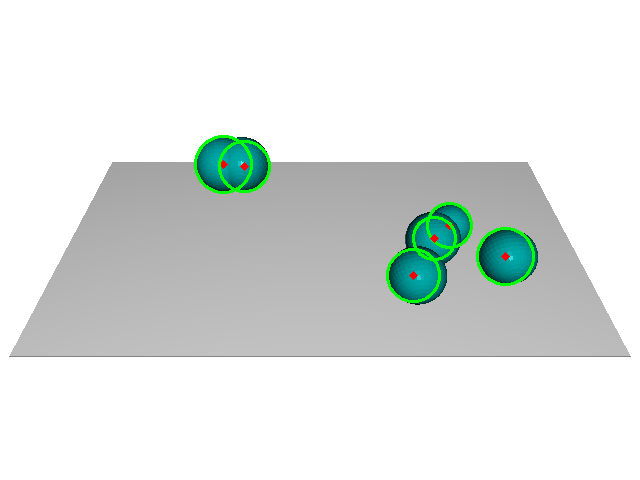
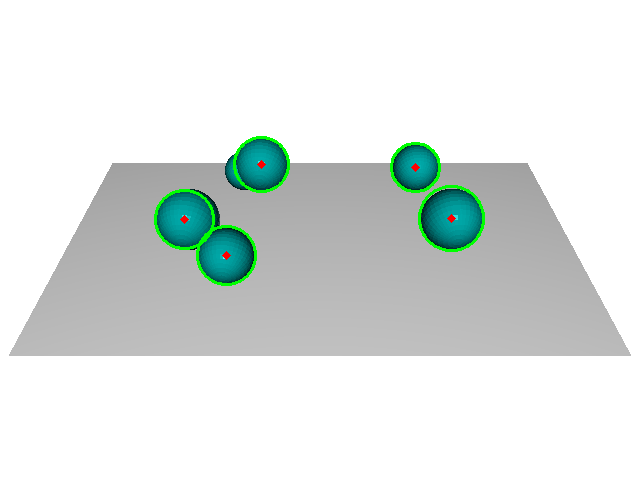
finish upto Task6

Changed region(s): [[0.5938, 0.2812, 0.8438, 0.6562], [0.2188, 0.2812, 0.4688, 0.5938]]

diff --git a/CWII2324-v2.py b/CWII2324-v2.py
@@ -468,6 +468,54 @@ if __name__ == '__main__':
 
     Write your code here
     '''
+    # K is the Open3D PinholeCameraIntrinsic object
+
+    # Extract the 3x3 intrinsic matrix from the Open3D PinholeCameraIntrinsic object
+    K_matrix = np.array(K.intrinsic_matrix).reshape((3, 3))
+
+    reconstructed_centers = []
+
+    for i, j in good_pairs:  # Loop through the good pairs obtained from Task 5
+        # Get the corresponding circle centers
+        pL = centers1[i]
+        pR = centers0[j]
+
+        # Convert image points to normalized device coordinates
+        pL_n = np.linalg.inv(K_matrix) @ np.array([pL[0], pL[1], 1])
+        pR_n = np.linalg.inv(K_matrix) @ np.array([pR[0], pR[1], 1])
+
+        # Get rotation and translation from camera 1 to camera 0
+        R = H0_wc[:3, :3].T  # Transpose of rotation matrix
+        T = H0_wc[:3, 3]  # Translation vector
+
+        # Compute cross product
+        pL_cross_pR = np.cross(pL_n, R @ pR_n)
+
+        # Form the linear system Ax = 0
+        A = np.array([
+            pL_n,  # a*pL
+            -R.T @ pR_n,  # -b*R^T*pR
+            -pL_cross_pR  # -c*(pL x R^T*pR)
+        ]).T
+
+        b = T  # T vector
+
+        # Solve the linear system using least squares
+        x, residuals, rank, s = np.linalg.lstsq(A, b, rcond=None)
+
+        # a, b, and c are the components of the solution x
+        a, b, c = x
+
+        # Reconstruct the 3D point
+        X = a * pL_n - c * pL_cross_pR
+
+        # Append the reconstructed 3D center to the list
+        reconstructed_centers.append(X)
+
+    # Print or process the reconstructed centers
+    for center in reconstructed_centers:
+        print("Reconstructed 3D center:", center)
+
     ###################################
 
 
